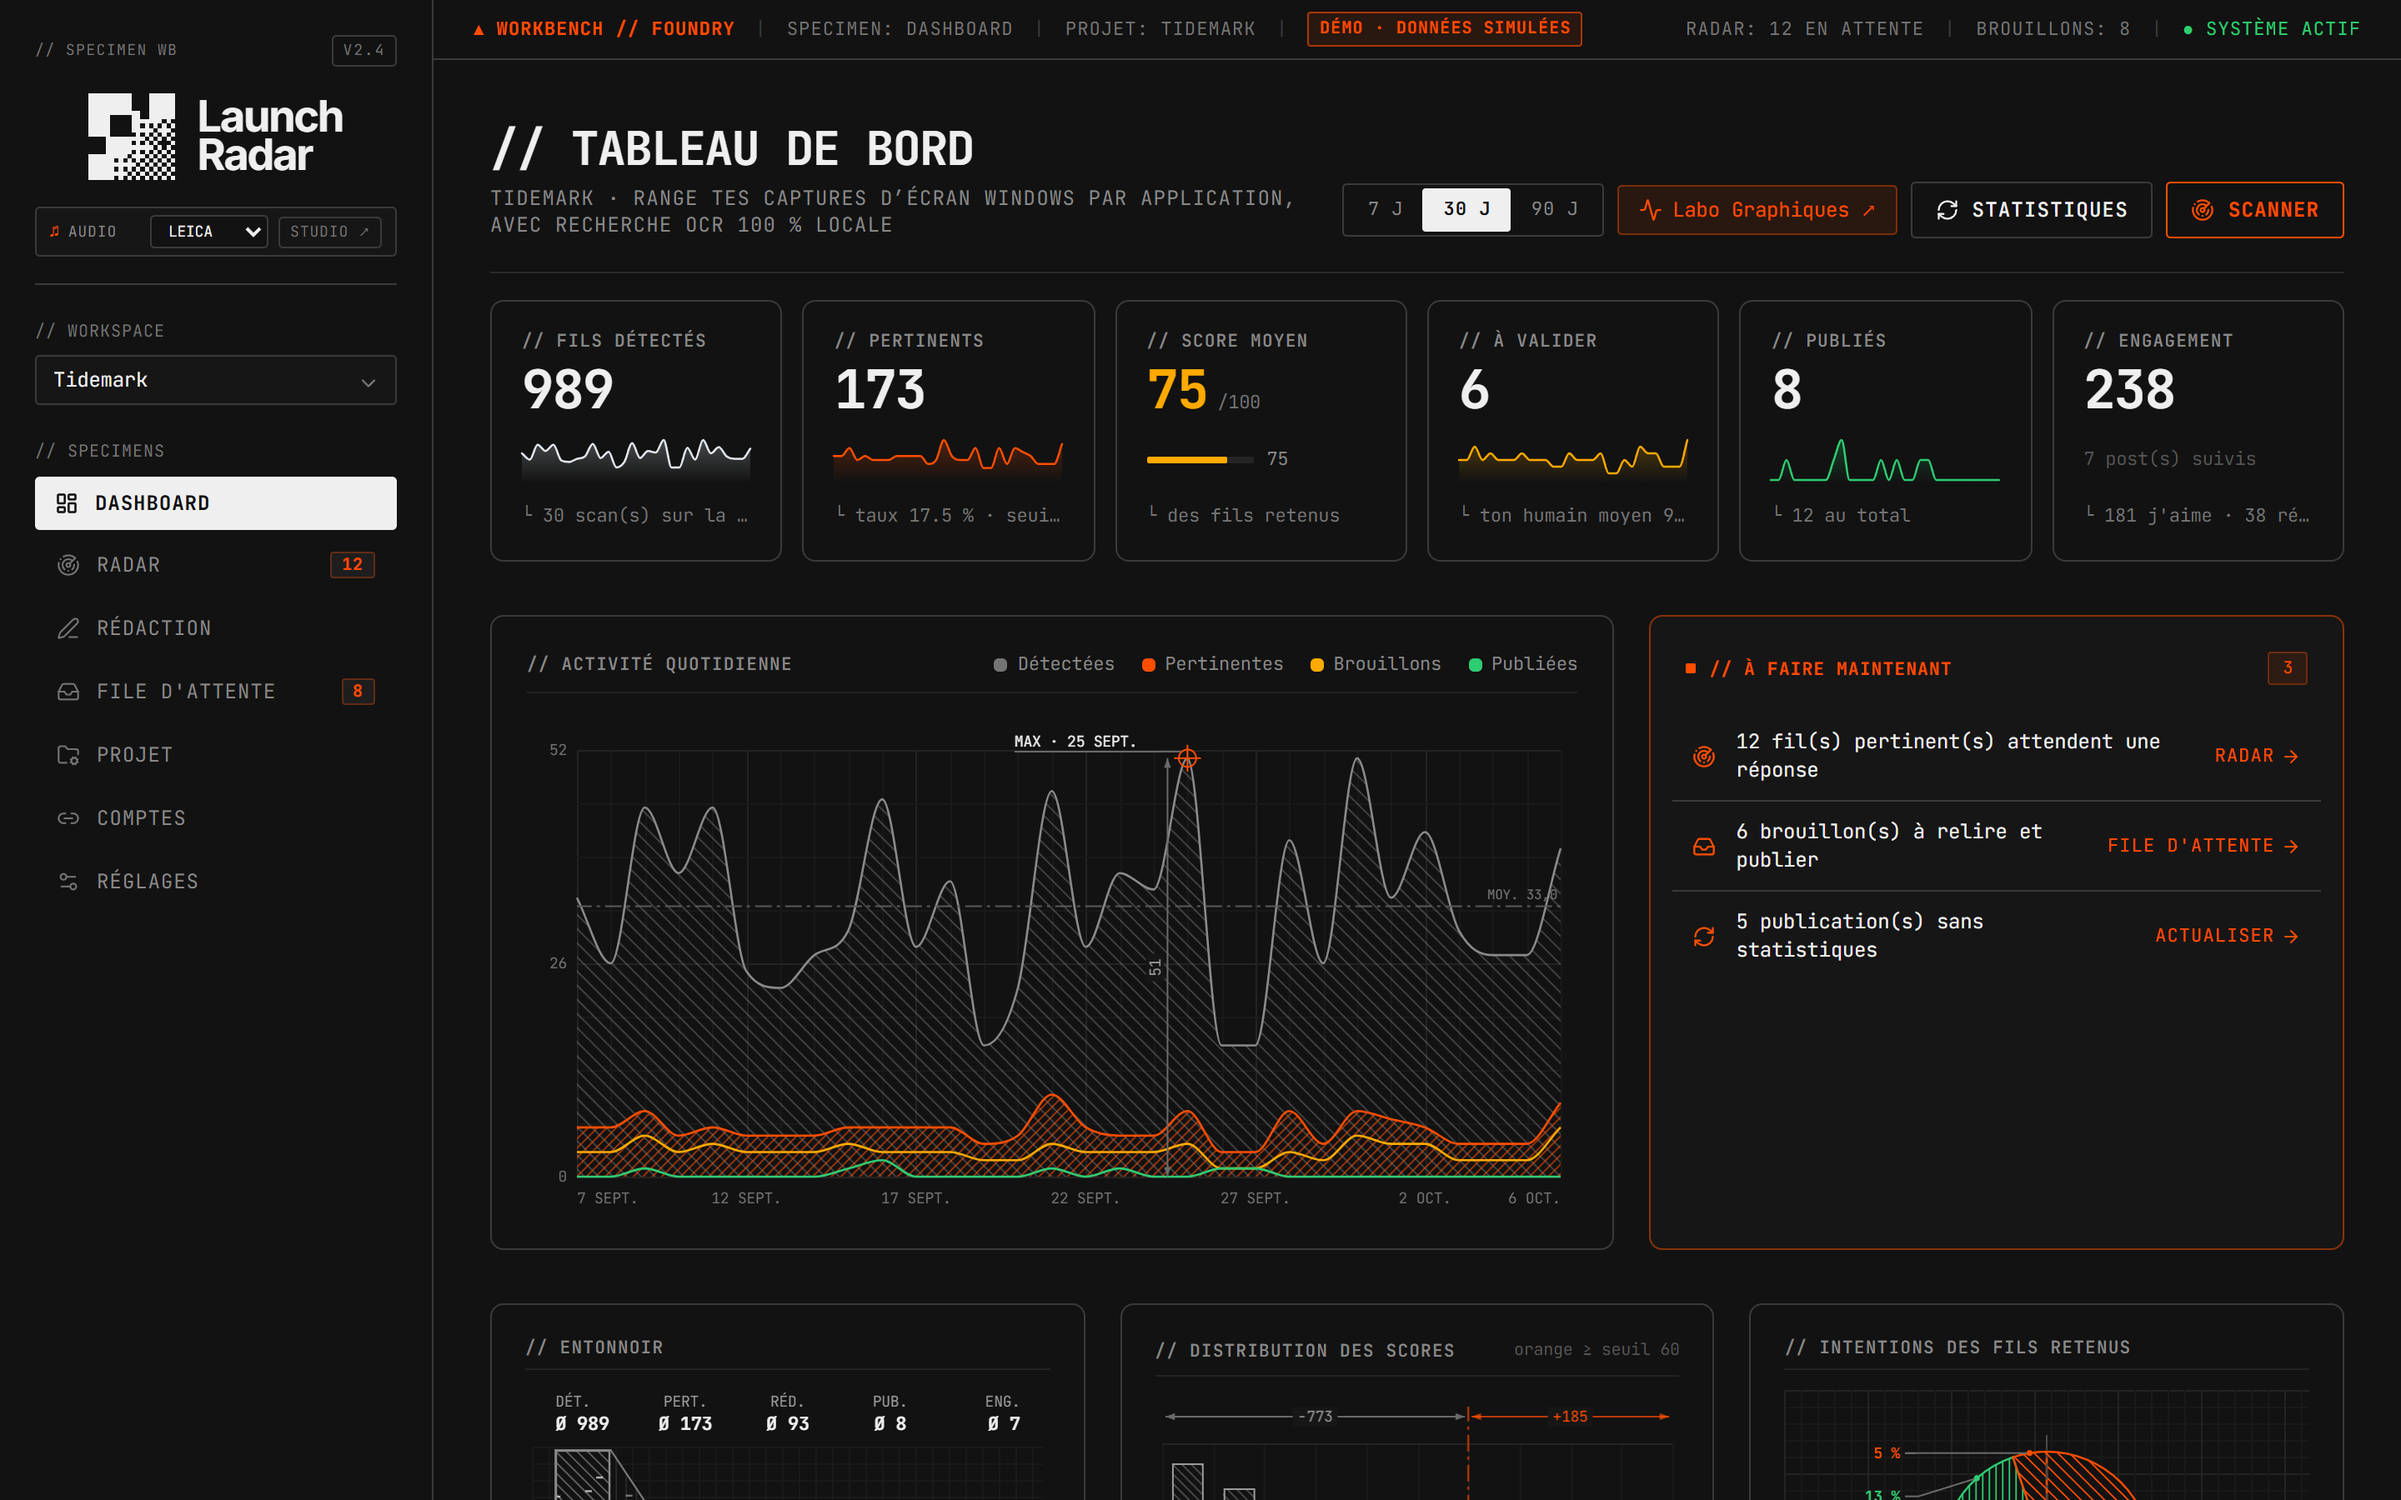
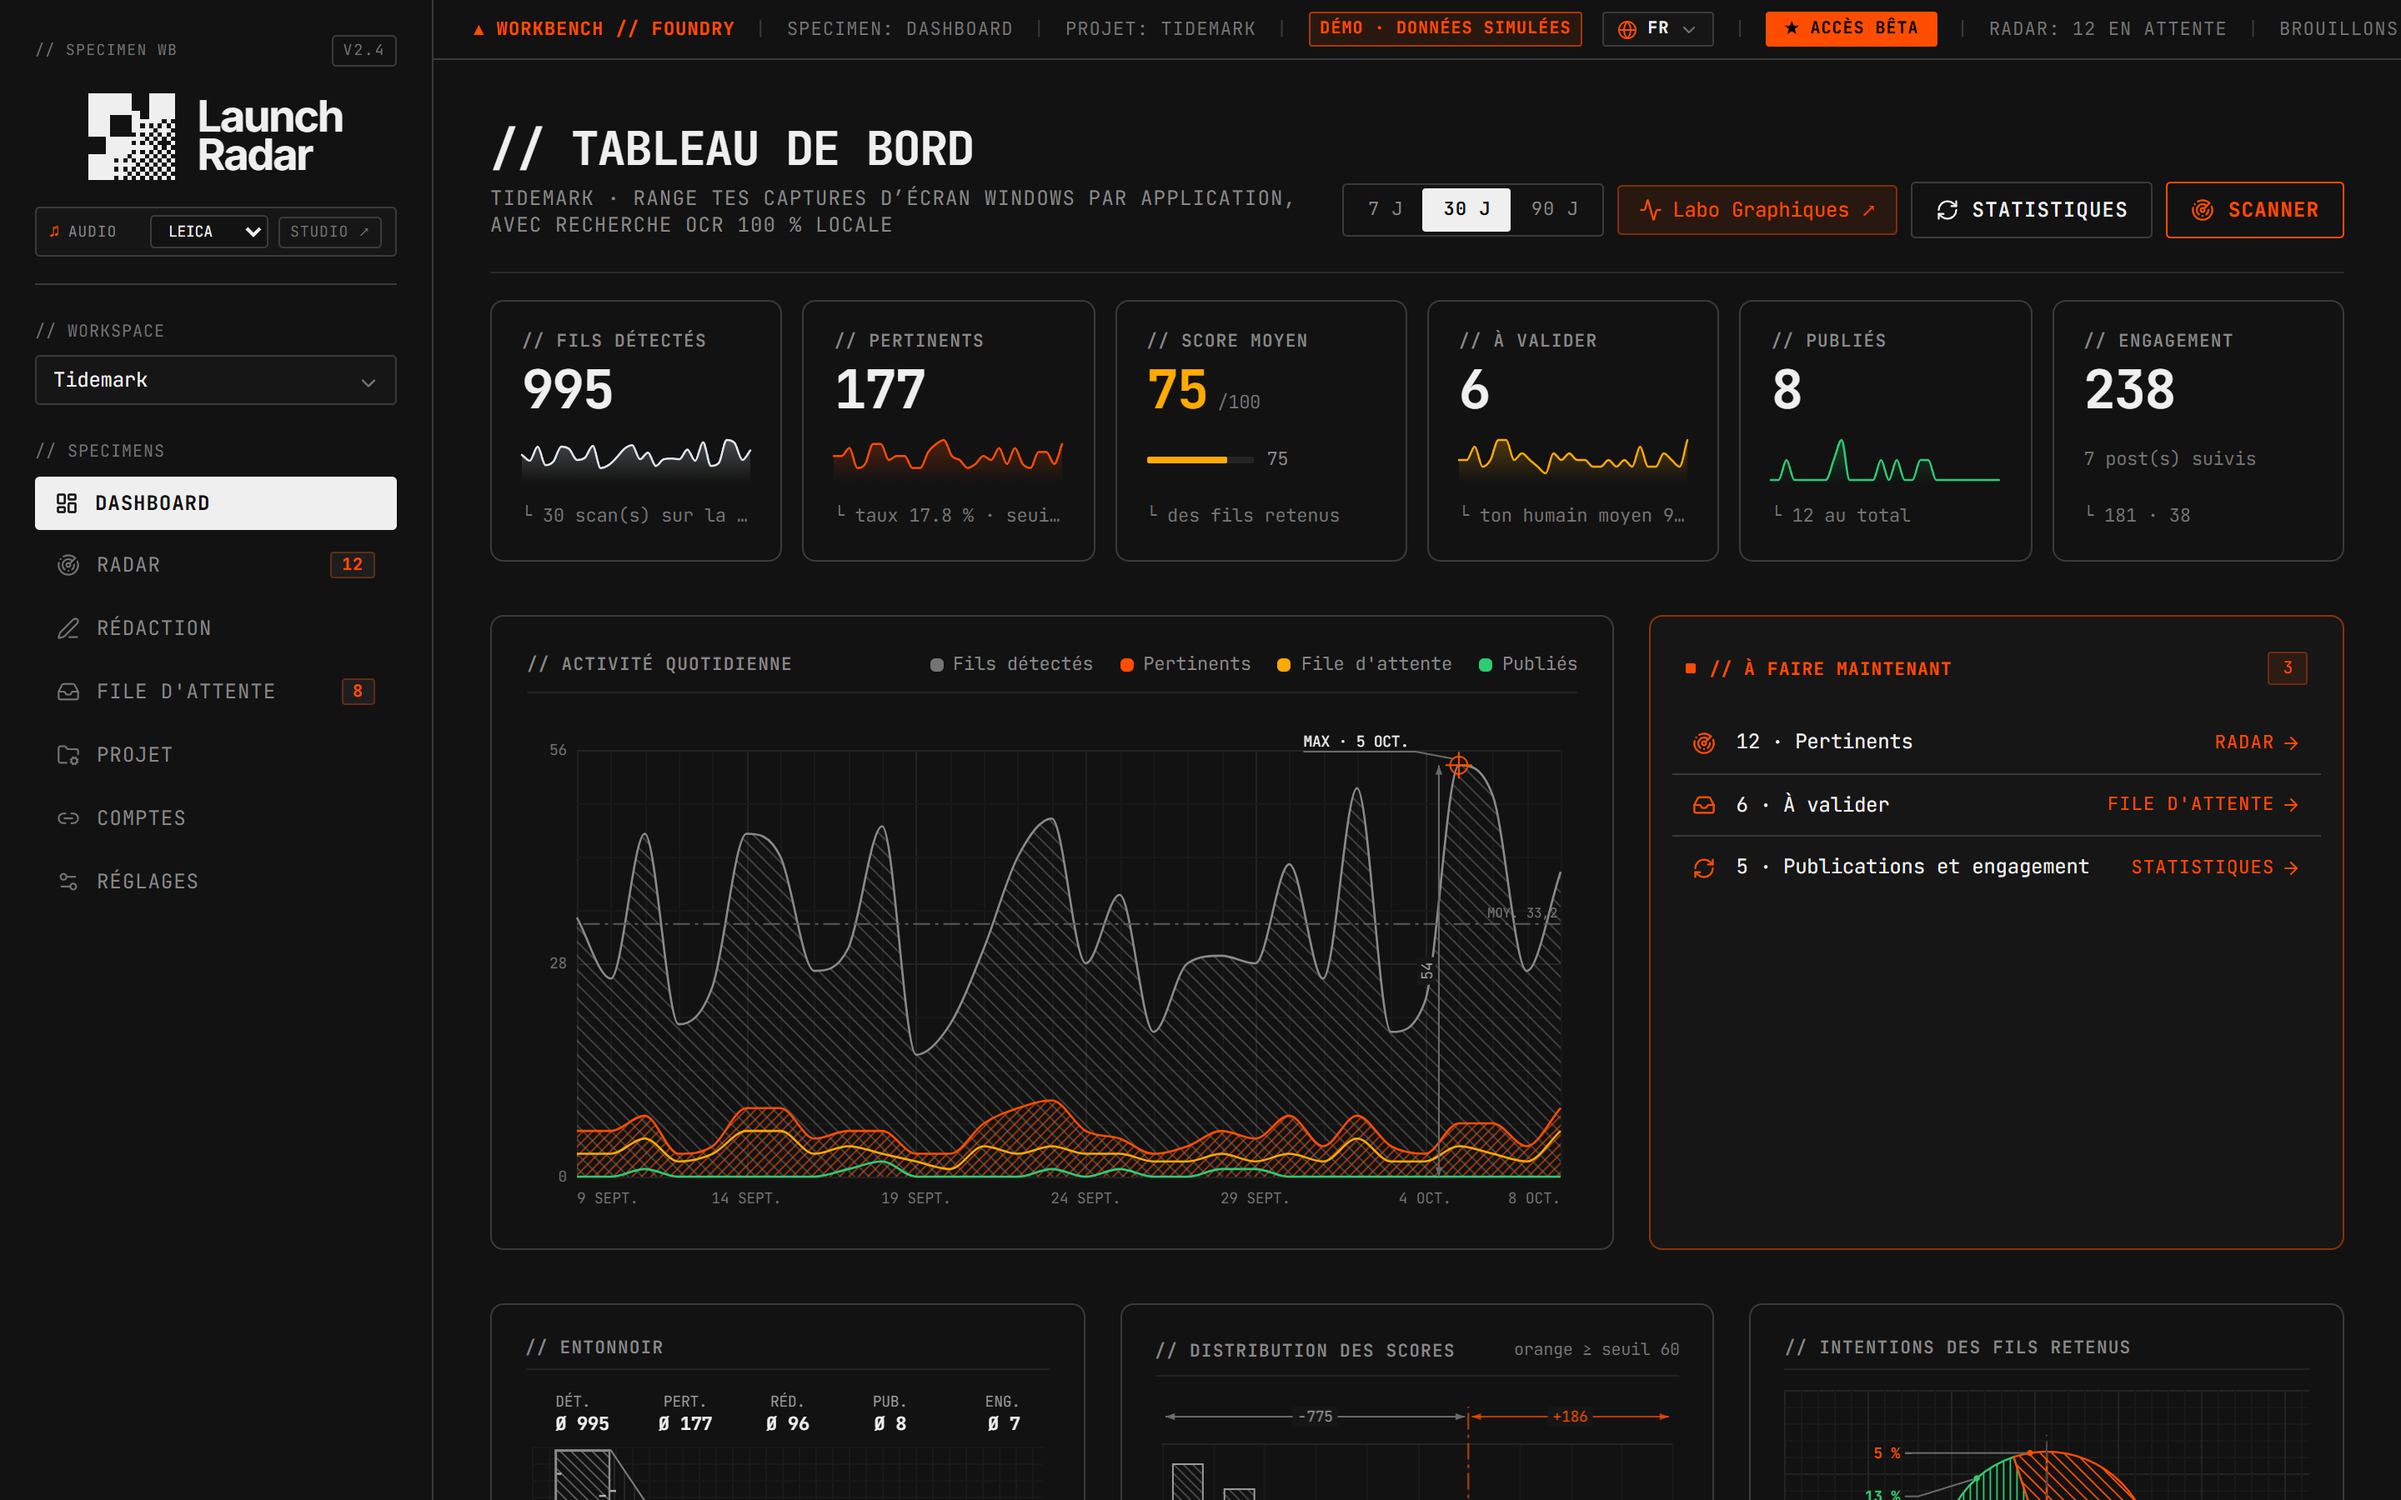
feat(i18n): add 7-language support (FR, EN, ES, RU, ZH, JA, HI) and update screenshots

diff --git a/README.md b/README.md
@@ -122,7 +122,7 @@ Chaque jour, des utilisateurs décrivent exactement le problème que votre outil
 
 #### Tester la démo interactive
 
-La vitrine **[launch-radar-showcase.vercel.app](https://launch-radar-showcase.vercel.app)** tourne entièrement dans le navigateur sur des données simulées (projets et fils fictifs, aucun appel réseau). La **visite guidée** (7 étapes, FR / EN) démarre à la première visite et se relance via le bouton « Visite guidée · Testez tout ».
+La vitrine **[launch-radar-showcase.vercel.app](https://launch-radar-showcase.vercel.app)** tourne entièrement dans le navigateur sur des données simulées (projets et fils fictifs, aucun appel réseau). L'application et la visite guidée sont disponibles en **7 langues majeures de développeurs (Français, English, Español, Русский, 简体中文, 日本語, हिन्दी)** avec un sélecteur instantané en en-tête. La **visite guidée** démarre à la première visite et se relance via le bouton « Visite guidée · Testez tout ».
 
 ---
 
